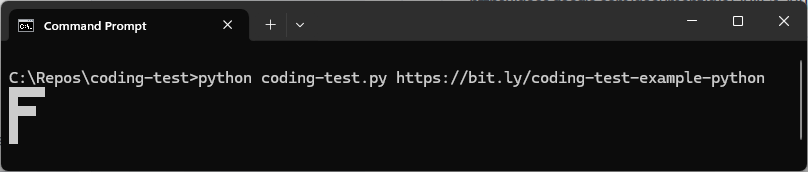
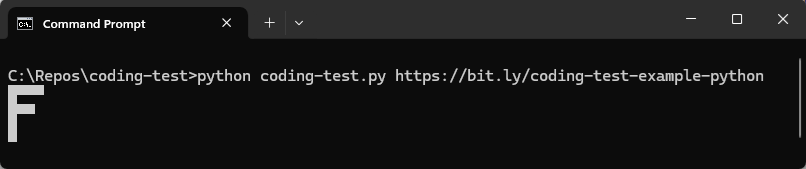
Revisions to README

diff --git a/README.md b/README.md
@@ -7,15 +7,15 @@ This is a simple Python script that downloads a Google Doc from a specified URL 
 **Note:** This can also be found <a href="https://bit.ly/coding-test-example-python" target="_blank" >here</a>.
 <br/><br/>
 **Sample output:**<br/>
-<img src="images/coding-test-sample-output.png" alt="Sample Output" width="808" height="172">
-<br/>
+<img src="images/coding-test-sample-output.png" alt="Sample Output" width="806" height="169">
+<br/><br/>
 
 ## Usage
 python coding-test.py [GOOGLE DOCS URL GOES HERE]
 <br/><br/>
 **Example:**<br/>
 python coding-test.py https://bit.ly/coding-test-example-python
-<br/>
+<br/><br/>
 
 ## Disclaimer
 This software is provided “as is”, without warranty of any kind, express or implied, including but not limited to the warranties of merchantability, fitness for a particular purpose and noninfringement. In no event shall the authors or copyright holders be liable for any claim, damages or other liability, whether in an action of contract, tort or otherwise, arising from, out of or in connection with the software or the use or other dealings in the software.
